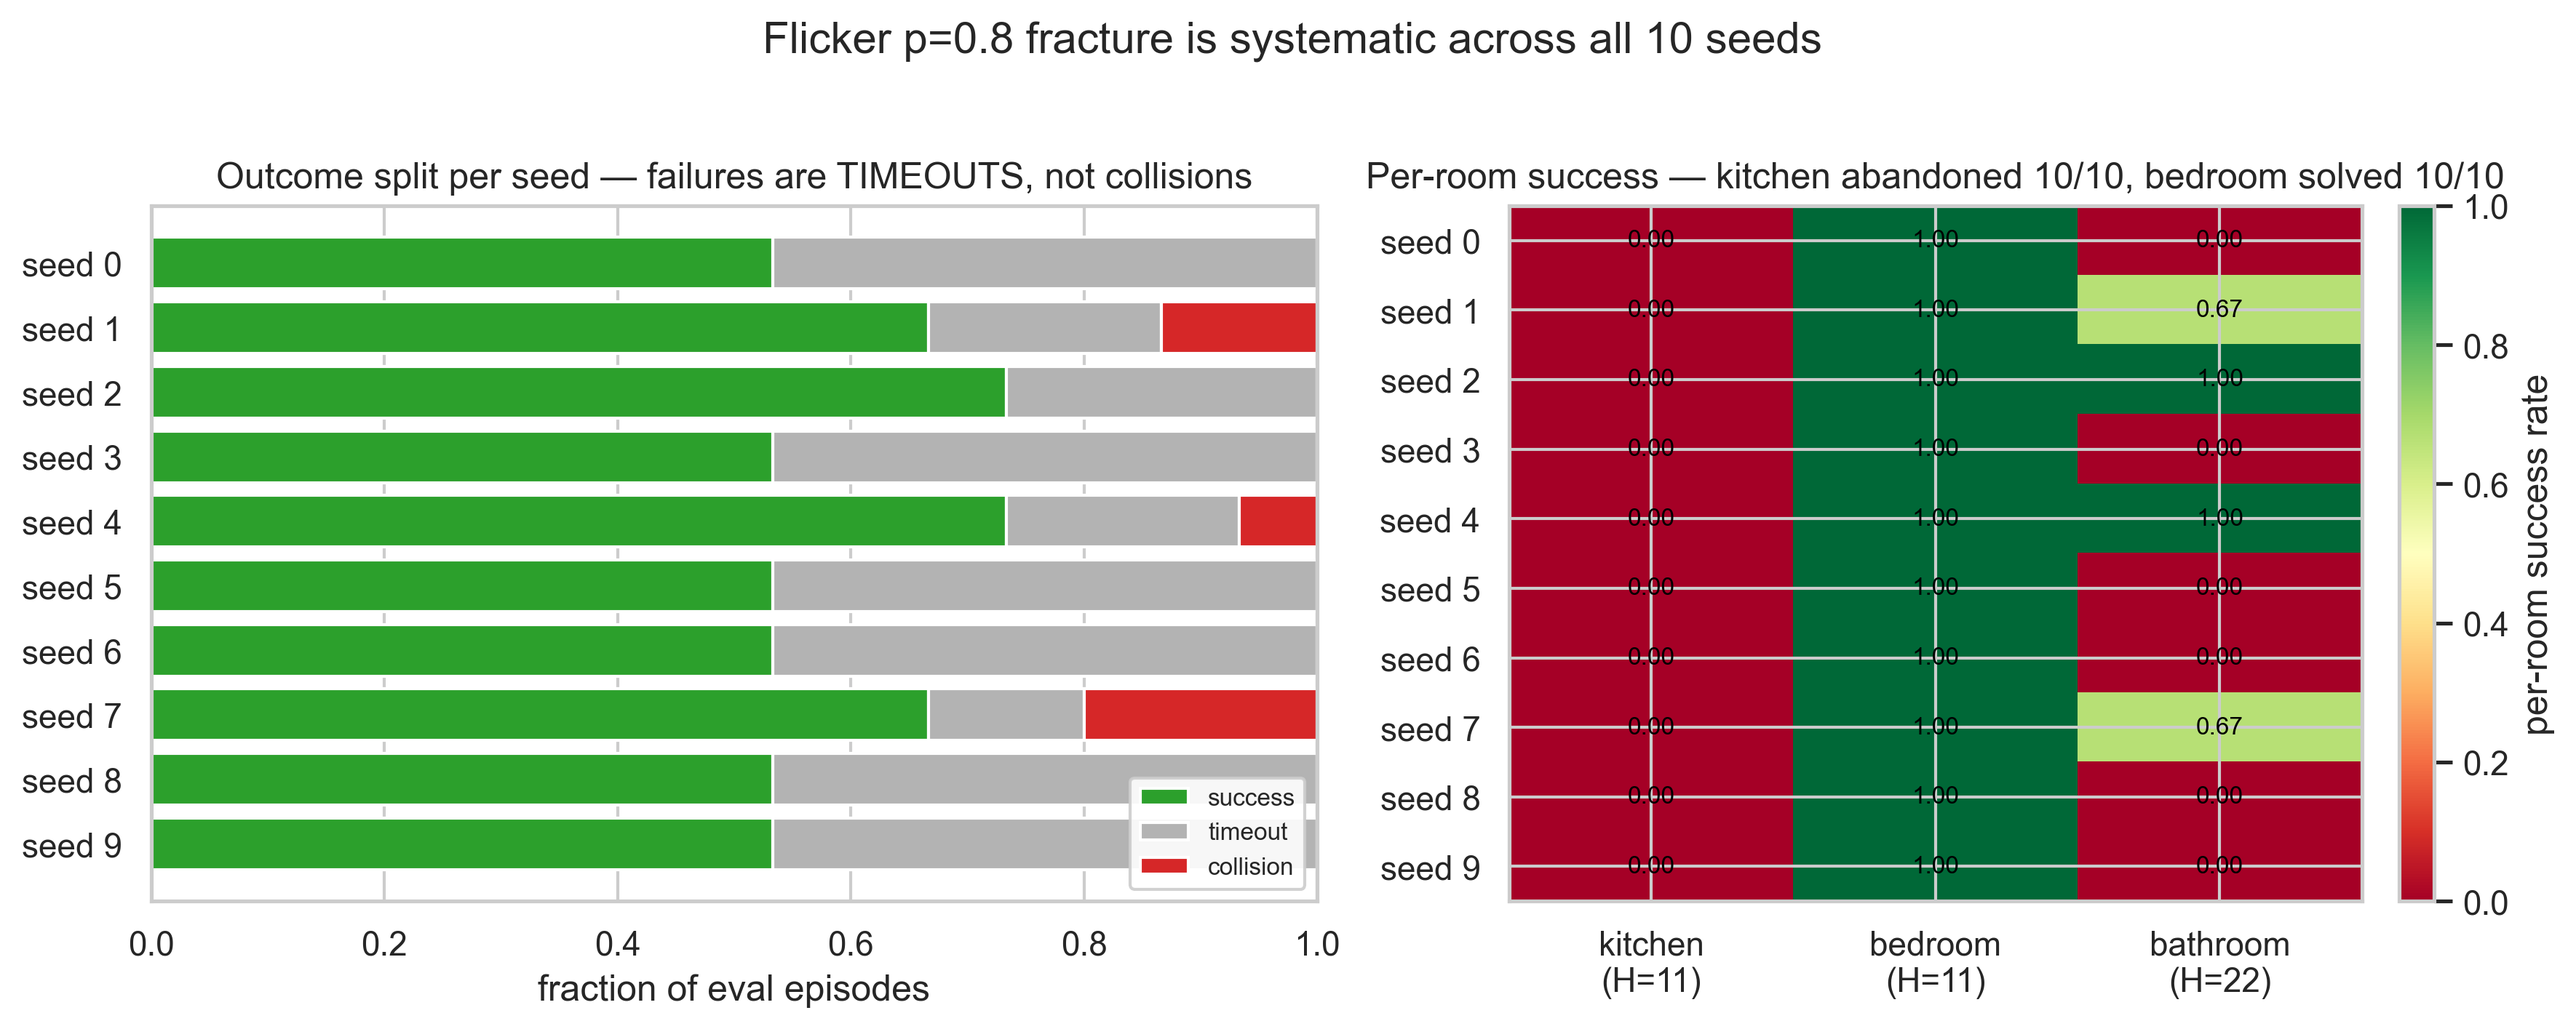
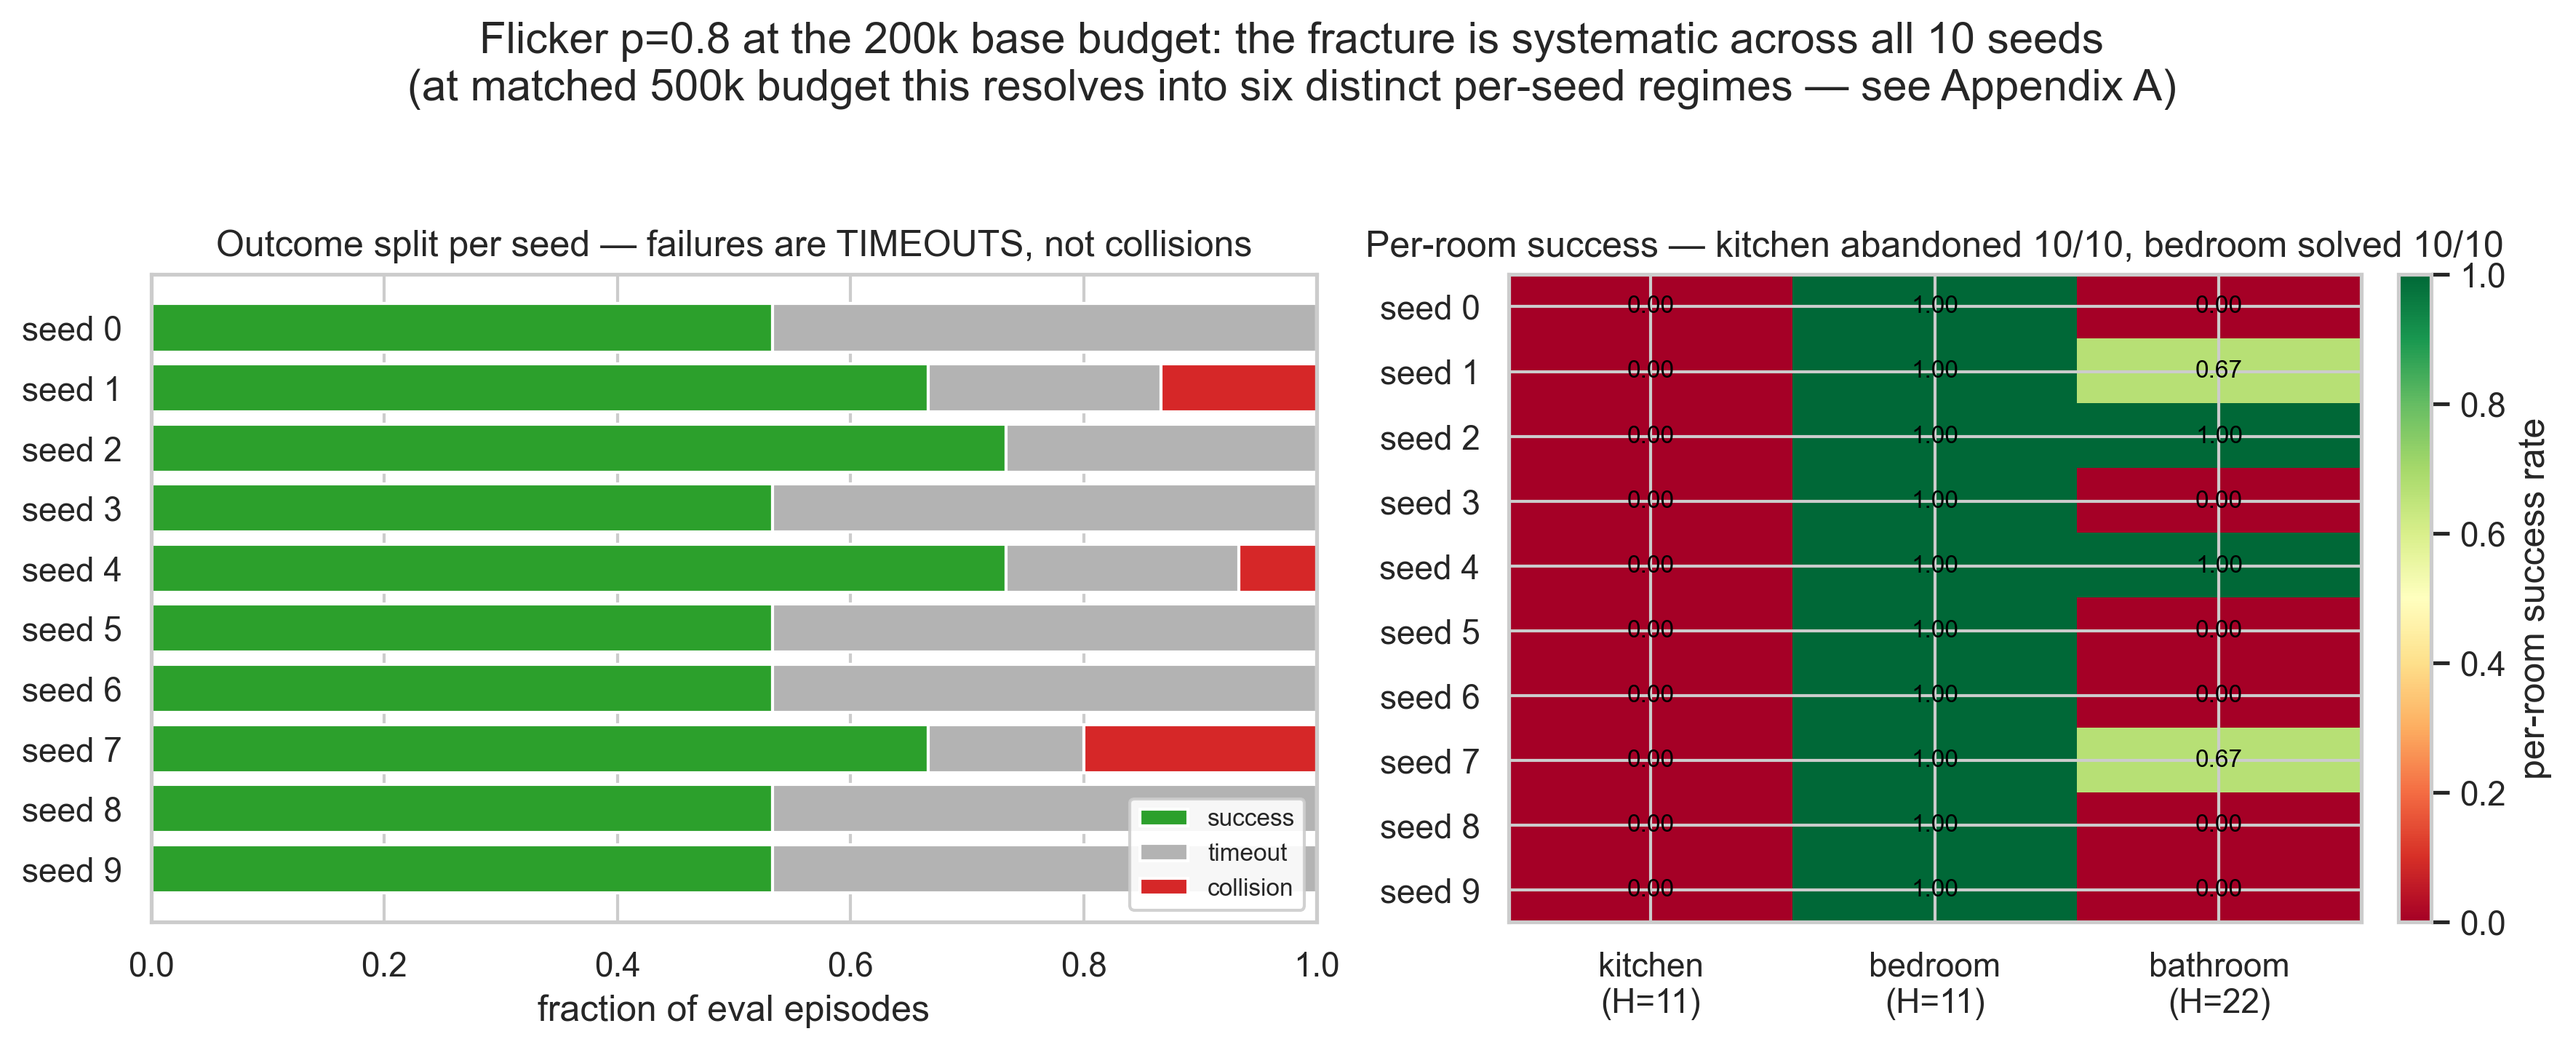
Phase 2: p=0.8 matched budget reveals landscape fragmentation
- Add p2_flicker08_500k_sym.csv (10 seeds × 500k, sym PPO)
- Document analyse_p2_cell aggregation: seed-mean was already the
  behaviour; make the definition explicit, print 3dp, label output,
  hoist pattern snapping to SR_SNAP_DP=3. Verified: K 0.500 /
  Bed 0.750 / Bath 0.833, 6 patterns from the raw CSV.
- Seed rliable bootstrap (fixed BOOTSTRAP_SEED) so every published CI
  regenerates to the digit. Re-run all Phase 2 CIs; update Table 2
  and §5 numbers from the seeded re-run.
- Add methods definition of per-room SR aggregation (seed-mean).
- §5: report both budgets side-by-side; introduce "landscape
  fragmentation" as the operative concept; 200k fracture becomes
  one manifestation. 500k: SR K 0.500 / Bed 0.750 / Bath 0.833,
  6 distinct patterns across 10 seeds; two seeds (4, 9) near-ceiling.
- §5 appendix: per-seed table (Appendix A).
- §7: replace p=0.8 illustration; drop distance-structuring from
  memorisation.
- Abstract / §1: outcomes are ceiling, fracture, OR fragment.
- Table 2: rename outcome column to "Behavioural regime"; caption
  now states seeds-per-cell, the SR definition, and P2-MS/GATE tiers.
- Regenerate Figure 6 with the 500k cell (6 cells, three regimes);
  scope Figure 7 to the 200k budget. Update figures manifest.
- Remove "open confirmation" hedge.
- results_log: follow-up entry for the matched-budget run.

diff --git a/Analysis/rliable_analysis.py b/Analysis/rliable_analysis.py
@@ -63,6 +63,18 @@ PHASE = "p1"
 # drop to e.g. 2_000 for a fast pass while iterating.
 REPS = int(os.environ.get("ARCH_ABLATIONS_REPS", "50000"))
 
+# rliable's stratified bootstrap draws from the global NumPy RNG, so an unseeded run
+# returns CI bounds that wobble in the last decimal or two between invocations. Every CI
+# in the paper is regenerated from committed CSVs, so those bounds must be reproducible to
+# the digit: seed immediately before each bootstrap call (see _seed_bootstrap). Changing
+# this value changes every published CI — treat it as frozen.
+BOOTSTRAP_SEED = int(os.environ.get("ARCH_ABLATIONS_BOOTSTRAP_SEED", "20260817"))
+
+
+def _seed_bootstrap() -> None:
+    """Reset the global NumPy RNG so the next rliable bootstrap is reproducible."""
+    np.random.seed(BOOTSTRAP_SEED)
+
 # Set ARCH_ABLATIONS_WRITE_FIGS=0 for a numbers-only pass that does NOT save (and so
 # never overwrites) the committed PNGs — e.g. a Phase-2-focused run that must leave
 # Figure 3 untouched. Default writes the figures as before.
@@ -197,6 +209,7 @@ def iqm_interval_estimates(sdict: dict[str, np.ndarray], reps: int = REPS):
     Returns (points, cis) where points[label] -> shape (1,) and
     cis[label] -> shape (2, 1) (low/high)."""
     iqm_fn = lambda x: np.array([metrics.aggregate_iqm(x)])
+    _seed_bootstrap()
     return rly.get_interval_estimates(sdict, iqm_fn, reps=reps)
 
 
@@ -236,6 +249,7 @@ def probability_of_improvement(better: str, worse: str, reps: int = REPS):
     """P(score(better) > score(worse)) with 95% CI (rliable, stratified boot)."""
     pairs = {f"{LABELS[better]},{LABELS[worse]}":
              (scores_of(better), scores_of(worse))}
+    _seed_bootstrap()
     probs, prob_cis = rly.get_interval_estimates(
         pairs, metrics.probability_of_improvement, reps=reps)
     key = list(pairs)[0]
@@ -554,6 +568,7 @@ if "ppo_exp1" in FRAMES and "ppo_exp4" in FRAMES:
     lo = float(np.floor(all_scores.min())) - 1.0
     hi = float(np.ceil(all_scores.max())) + 1.0
     taus = np.linspace(lo, hi, 100)
+    _seed_bootstrap()
     profiles, profile_cis = rly.create_performance_profile(h1_dict, taus, reps=REPS)
 
     fig, ax = plt.subplots(figsize=(7, 5))
@@ -656,6 +671,11 @@ P2_FRACTURE_CELLS = {
 }
 ROOM_SR_COLS = ("sr_kitchen", "sr_bedroom", "sr_bathroom")
 
+# Per-room SR values are snapped to this many decimals before pattern bucketing, so two
+# float spellings of the same fraction (0.666666 vs 0.666667) cannot register as two
+# distinct behavioural patterns.
+SR_SNAP_DP = 3
+
 
 def analyse_p2_cell(stem: str, label: str, reps: int = REPS) -> None:
     """For one Phase-2 cell: 10-seed IQM + 95% bootstrap CI of return, aggregate
@@ -677,11 +697,18 @@ def analyse_p2_cell(stem: str, label: str, reps: int = REPS) -> None:
     _log(f"  {label}  (n={n} seeds)")
     _log(f"    IQM return (over per-seed mean) : {iqm:6.2f}   95% CI [{lo:6.2f}, {hi:6.2f}]")
 
-    # (2) aggregate per-room success rate (mean across seeds).
+    # (2) aggregate per-room SR. DEFINITION (stated in the paper's §4 setup): the mean
+    # ACROSS SEEDS of each seed's own per-room SR fraction — deliberately NOT a pooled
+    # per-episode rate. Eval target rooms are sampled rather than balanced, so seeds have
+    # unequal per-room episode counts (e.g. the 500k cell's seed 2: kitchen 3/3,
+    # bedroom 0/8, bathroom 4/4, hence success_rate 0.467 rather than 0.667). Seed-mean
+    # keeps this aggregate arithmetically consistent with the per-seed table printed
+    # below — averaging that column reproduces this row — and is robust to that
+    # truncation; pooling would silently reweight seeds by their episode counts.
     agg = {c: float(np.nanmean(np.asarray(cols[c], float))) for c in ROOM_SR_COLS}
-    _log(f"    aggregate per-room SR           : "
-         f"kitchen {agg['sr_kitchen']:.2f} / bedroom {agg['sr_bedroom']:.2f} / "
-         f"bathroom {agg['sr_bathroom']:.2f}")
+    _log(f"    aggregate per-room SR (seed-mean): "
+         f"kitchen {agg['sr_kitchen']:.3f} / bedroom {agg['sr_bedroom']:.3f} / "
+         f"bathroom {agg['sr_bathroom']:.3f}")
 
     # (3) per-seed table — the heterogeneity is the finding.
     srk = np.asarray(cols["sr_kitchen"], float)
@@ -700,7 +727,7 @@ def analyse_p2_cell(stem: str, label: str, reps: int = REPS) -> None:
     # heterogeneity: how many DISTINCT per-room (k, bed, bath) outcome patterns?
     patterns: dict[tuple, int] = {}
     for i in range(n):
-        key = (round(float(srk[i]), 2), round(float(srb[i]), 2), round(float(srh[i]), 2))
+        key = tuple(round(float(v[i]), SR_SNAP_DP) for v in (srk, srb, srh))
         patterns[key] = patterns.get(key, 0) + 1
     dom = max(patterns.values())
     _log(f"    distinct per-room SR patterns    : {len(patterns)} across {n} seeds "

diff --git a/Analysis/plot_p2_ladder.py b/Analysis/plot_p2_ladder.py
@@ -31,19 +31,26 @@ CSV_DIR = Path(os.environ.get("ARCH_ABLATIONS_CSV_DIR", "results/csv"))
 FIG_DIR = Path(os.environ.get("ARCH_ABLATIONS_FIG_DIR", "figures"))
 FIG_DIR.mkdir(parents=True, exist_ok=True)
 CEILING = 27.8            # A-STRICT/control reward ceiling (reference line)
-REPS = 20000
+# Paper-standard bootstrap settings, matching Analysis/rliable_analysis.py: 50k reps and a
+# FIXED seed, so every CI drawn here regenerates to the digit from the committed CSVs.
+REPS = int(os.environ.get("ARCH_ABLATIONS_REPS", "50000"))
+BOOTSTRAP_SEED = int(os.environ.get("ARCH_ABLATIONS_BOOTSTRAP_SEED", "20260817"))
 
-# (config_id, label, classification) — display order = ceilings then the fracture;
-# flicker07 is optional (appears once its claim-grade CSV lands).
+# (config_id, label, behavioural regime) — display order = ceilings, then the p=0.8 cell
+# at both budgets. flicker07 is optional (appears once its claim-grade CSV lands).
+# p=0.8 appears TWICE, at 200k and at matched 500k: the pair is the §5 finding, so the
+# ladder figure has to show both or it contradicts Table 2.
 CELLS = [
-    ("p2_strict_sym",   "A-STRICT (13-D)",       "ceiling"),
-    ("p2_alias_sym",    "Aliasing (10-D)",       "ceiling"),
-    ("p2_proxnoise_sym","Prox-noise q=0.3 (13-D)", "ceiling"),
-    ("p2_flicker07_sym","Flicker p=0.7 (52-D)",  "ceiling"),   # optional
-    ("p2_flicker08_sym","Flicker p=0.8 (52-D)",  "fracture"),
+    ("p2_strict_sym",        "A-STRICT (13-D)",            "ceiling"),
+    ("p2_alias_sym",         "Aliasing (10-D)",            "ceiling"),
+    ("p2_proxnoise_sym",     "Prox-noise q=0.3 (13-D)",    "ceiling"),
+    ("p2_flicker07_sym",     "Flicker p=0.7 (52-D, 500k)", "ceiling"),   # optional
+    ("p2_flicker08_sym",     "Flicker p=0.8 (52-D, 200k)", "fracture"),
+    ("p2_flicker08_500k_sym","Flicker p=0.8 (52-D, 500k)", "fragmentation"),
 ]
-COLOR = {"ceiling": sns.color_palette("tab10")[0],      # blue
-         "fracture": sns.color_palette("tab10")[3]}     # red
+COLOR = {"ceiling": sns.color_palette("tab10")[0],          # blue
+         "fracture": sns.color_palette("tab10")[3],         # red
+         "fragmentation": sns.color_palette("tab10")[1]}    # orange
 
 
 def load(cid: str):
@@ -59,6 +66,7 @@ def load(cid: str):
 def iqm_ci(vals):
     sd = {"x": np.asarray(vals, float).reshape(-1, 1)}
     fn = lambda x: np.array([metrics.aggregate_iqm(x)])
+    np.random.seed(BOOTSTRAP_SEED)      # reproducible CI bounds (see BOOTSTRAP_SEED)
     p, c = rly.get_interval_estimates(sd, fn, reps=REPS)
     return float(p["x"][0]), float(c["x"][0, 0]), float(c["x"][1, 0])
 
@@ -84,12 +92,12 @@ ax.text(CEILING, len(present) - 0.4, f"ceiling {CEILING}", rotation=90,
 ax.set_yticks(yticks); ax.set_yticklabels(ylabels)
 ax.invert_yaxis(); ax.margins(y=0.12)
 ax.set_xlabel("IQM eval return  (95% stratified-bootstrap CI, 10 seeds)")
-ax.set_title("Phase 2 — observability-ladder cells (symmetric PPO): ceilings vs the p=0.8 fracture")
+ax.set_title("Phase 2 — observability-ladder cells (symmetric PPO):\n"
+             "ceilings vs the p=0.8 fracture (200k) and its matched-budget fragmentation (500k)")
 from matplotlib.lines import Line2D
-ax.legend(handles=[Line2D([0], [0], marker="o", color="w", markerfacecolor=COLOR["ceiling"],
-                          markersize=9, label="ceiling"),
-                   Line2D([0], [0], marker="o", color="w", markerfacecolor=COLOR["fracture"],
-                          markersize=9, label="fracture")],
+ax.legend(handles=[Line2D([0], [0], marker="o", color="w", markerfacecolor=COLOR[k],
+                          markersize=9, label=k)
+                   for k in ("ceiling", "fracture", "fragmentation")],
           loc="lower right", frameon=True)
 fig.tight_layout()
 f1 = FIG_DIR / "p2_ladder_iqm.png"
@@ -134,7 +142,9 @@ else:
                      color="black")
     axR.set_title("Per-room success — kitchen abandoned 10/10, bedroom solved 10/10")
     fig.colorbar(im, ax=axR, fraction=0.046, pad=0.04, label="per-room success rate")
-    fig.suptitle("Flicker p=0.8 fracture is systematic across all 10 seeds", y=1.02)
+    fig.suptitle("Flicker p=0.8 at the 200k base budget: the fracture is systematic "
+                 "across all 10 seeds\n(at matched 500k budget this resolves into six "
+                 "distinct per-seed regimes — see Appendix A)", y=1.04)
     fig.tight_layout()
     f2 = FIG_DIR / "p2_flicker08_perseed.png"
     fig.savefig(f2, dpi=300, bbox_inches="tight")

diff --git a/docs/results_log.md b/docs/results_log.md
@@ -279,6 +279,33 @@ Convergence curve (IQM | success | k/bed/bath | **coll** @ 100k/200k/300k/400k/5
 
 ---
 
+### [P2][CLAIM-GRADE] flicker p=0.8 at matched budget (500k) — the fracture is landscape fragmentation
+
+*Follow-up to `[P2][CLAIM-GRADE] Symmetric multi-seed ladder cells` above. That entry stands as written; this one records what the matched-budget replication changed. Per the log convention, the earlier entry is **not** edited.*
+
+- **Date:** 2026-08-18
+- **Owner:** Samuel
+- **Status:** **CLAIM-GRADE** — 10 seeds, rliable IQM + 95% CI, seeded bootstrap; archival by the git + determinism standard (committed CSV + frozen seeds + committed code).
+- **Config(s):** `configs/p2_flicker08_500k_sym.yaml` (distinct `config_id` from `p2_flicker08_sym`, so the 200k data is preserved rather than overwritten)
+- **Seeds:** 10 (0–9)
+- **Env steps per run:** 500k (budget parity with `p2_flicker07_sym`)
+- **Headline metric(s):**
+  | Metric | 200k (prior) | 500k (this run) |
+  |---|---|---|
+  | IQM eval return (95% CI) | 8.95 [6.43, 13.01] | **13.24 [7.79, 18.91]** |
+  | Per-room SR (seed-mean, k/bed/bath) | 0.000 / 1.000 / 0.333 | **0.500 / 0.750 / 0.833** |
+  | Distinct per-seed SR patterns | 3 / 10 | **6 / 10** |
+  | Seeds solving all three rooms | 0 | **2** (seeds 4, 9 — IQM 25.56, 25.13) |
+- **Figure(s):** `figures/p2_ladder_iqm.png` (regenerated, now 6 cells)
+- **Generated by:** `Analysis/rliable_analysis.py` (§G), `Analysis/plot_p2_ladder.py`
+- **Raw per-seed CSV:** `results/csv/p2_flicker08_500k_sym.csv`
+
+**Interpretation.** The matched-budget replication does **not** overturn the p=0.8 result statistically — the CIs overlap substantially, so mean return is not distinguishable between budgets — but it changes what the cell *is*. At 200k the outcome looked like a single settled give-up basin (kitchen abandoned 10/10, bedroom solved 10/10, only 3 distinct per-seed patterns). At 500k the per-seed distribution scatters into 6 distinct patterns: the kitchen, abandoned by every seed at 200k, is solved by 5/10; conversely seeds 2 and 6 now abandon the *bedroom*, the room every seed solved at 200k; and 2 seeds reach near-ceiling on all three rooms. The right description is **landscape fragmentation** — multiple locally-optimal *reactive* policies partitioning the outcome space by room, with seed selection deciding which basin a run finds — and the 200k pattern is the manifestation visible while training is short enough that most seeds have not left their initial basin. This *strengthens* the §5 argument rather than weakening it: the rung is still disqualified by the step-5 `S`-attribution guard, and for a sharper reason (a gap measured here would report which basin a run lands in, not whether `A` suits `S`), and it is itself an instance of the paper's thesis — a single-budget snapshot would have reported clean structure that matched-budget multi-seed evaluation shows is not there. Ladder-wide, the distinct-pattern count is now a monotone gradient across the whole ladder: 1/10, 1/10, 1/10 (ceilings), 2/10 (p=0.7), 3/10 (p=0.8 @200k), 6/10 (p=0.8 @500k).
+
+**Caveats / known issues.** Local CPU, W&B-disabled (committed CSV is the artifact). Per-room SR is the **seed-mean of each seed's own SR fraction** (now the paper-wide definition, stated in §4), not a pooled per-episode rate; eval target rooms are sampled rather than balanced, so per-seed room denominators are unequal (e.g. seed 2: kitchen 3/3, bedroom 0/8, bathroom 4/4), which is why seeds 2 and 6 carry very low returns despite solving two of three rooms. Bootstrap CIs are now seeded (`BOOTSTRAP_SEED`), so all CIs in this entry regenerate to the digit; three previously-published CIs shifted in the last decimal under seeding and were updated in the paper (p=0.7 lower bound 25.42→25.41, p=0.8 @200k 6.29→6.43, p=0.8 @500k 7.77→7.79).
+
+---
+
 ## Phase 3 — Cross-environment (MiniGrid), Lipschitz, dynamic, sensor noise
 
 **Purpose:** Test H4 (Lipschitz) by post-hoc analysis of saved checkpoints. Test H5 (cross-env) on MiniGrid FourRooms, MultiRoom-N2-S4, DoorKey-6x6. Address Reviewer 2/3 concerns about static-only env via dynamic-obstacle ablation, and the sim-to-real gap via sensor-noise ablation.

diff --git a/figures/README.md b/figures/README.md
@@ -47,8 +47,8 @@ The single source of truth for what figures exist, what they show, and how they 
 | `p1_sample_efficiency_ppo_vs_dqn.png` | `Analysis/rliable_analysis.py` | `results/csv/p1_*.csv` | pending first sweep | poster, paper §5.1 | IQM env-steps-to-90% (+CI), PPO vs DQN; checks the original ~12.5× claim |
 | `p2_rung3_blackout_vs_p.png` | `Analysis/rung3_difficulty_model.py` | env grid (BFS) + closed-form | 2026-07-02 | Phase 2 calibration | P(disabling blackout ≥1/episode) vs flicker p, per room (real H), hard-but-learnable band shaded |
 | `p2_rung3_observed_vs_predicted.png` | `Analysis/rung3_difficulty_model.py` | env grid + gate results_log | 2026-07-02 | Phase 2 calibration | H-model predicted difficulty vs observed per-room difficulty at p=0.5/0.7/0.8 — shows H is NOT the mechanism |
-| `p2_ladder_iqm.png` | `Analysis/plot_p2_ladder.py` | `results/csv/p2_*_sym.csv` | 2026-07-04 | paper §5 (results) | Per-cell IQM+95% CI (10 seeds); three ceilings vs the p=0.8 fracture, ceiling reference. flicker07 auto-adds when its CSV lands |
-| `p2_flicker08_perseed.png` | `Analysis/plot_p2_ladder.py` | `results/csv/p2_flicker08_sym.csv` | 2026-07-04 | paper §5 (fracture) | p=0.8 per-seed outcome split (timeouts not collisions) + per-room SR heatmap (kitchen abandoned 10/10) |
+| `p2_ladder_iqm.png` | `Analysis/plot_p2_ladder.py` | `results/csv/p2_*_sym.csv` | 2026-08-18 | paper §5 (Figure 6) | Per-cell IQM+95% CI (10 seeds), 6 cells; four ceilings vs the p=0.8 **fracture (200k)** and its matched-budget **fragmentation (500k)**, ceiling reference. Seeded bootstrap (`BOOTSTRAP_SEED`), REPS=50000 |
+| `p2_flicker08_perseed.png` | `Analysis/plot_p2_ladder.py` | `results/csv/p2_flicker08_sym.csv` | 2026-08-18 | paper §5 (Figure 7) | p=0.8 **at 200k** per-seed outcome split (timeouts not collisions) + per-room SR heatmap (kitchen abandoned 10/10). The 500k per-seed data is a table in paper Appendix A, not a figure |
 | `pc_dose_response.png` | `Analysis/positive_control.py plot` | `results/csv/positive_control.csv` | 2026-07-10 | paper §(positive control) | CNN vs param-matched MLP test-acc (IQM+CI, 10 seeds) vs scramble fraction q; the gap tracks spatial locality — appears at q=0, vanishes/inverts by q=1 |
 
 *(Add new rows below as figures land. Mark retired figures with `~~strikethrough~~` rather than deleting them — provides audit trail.)*
